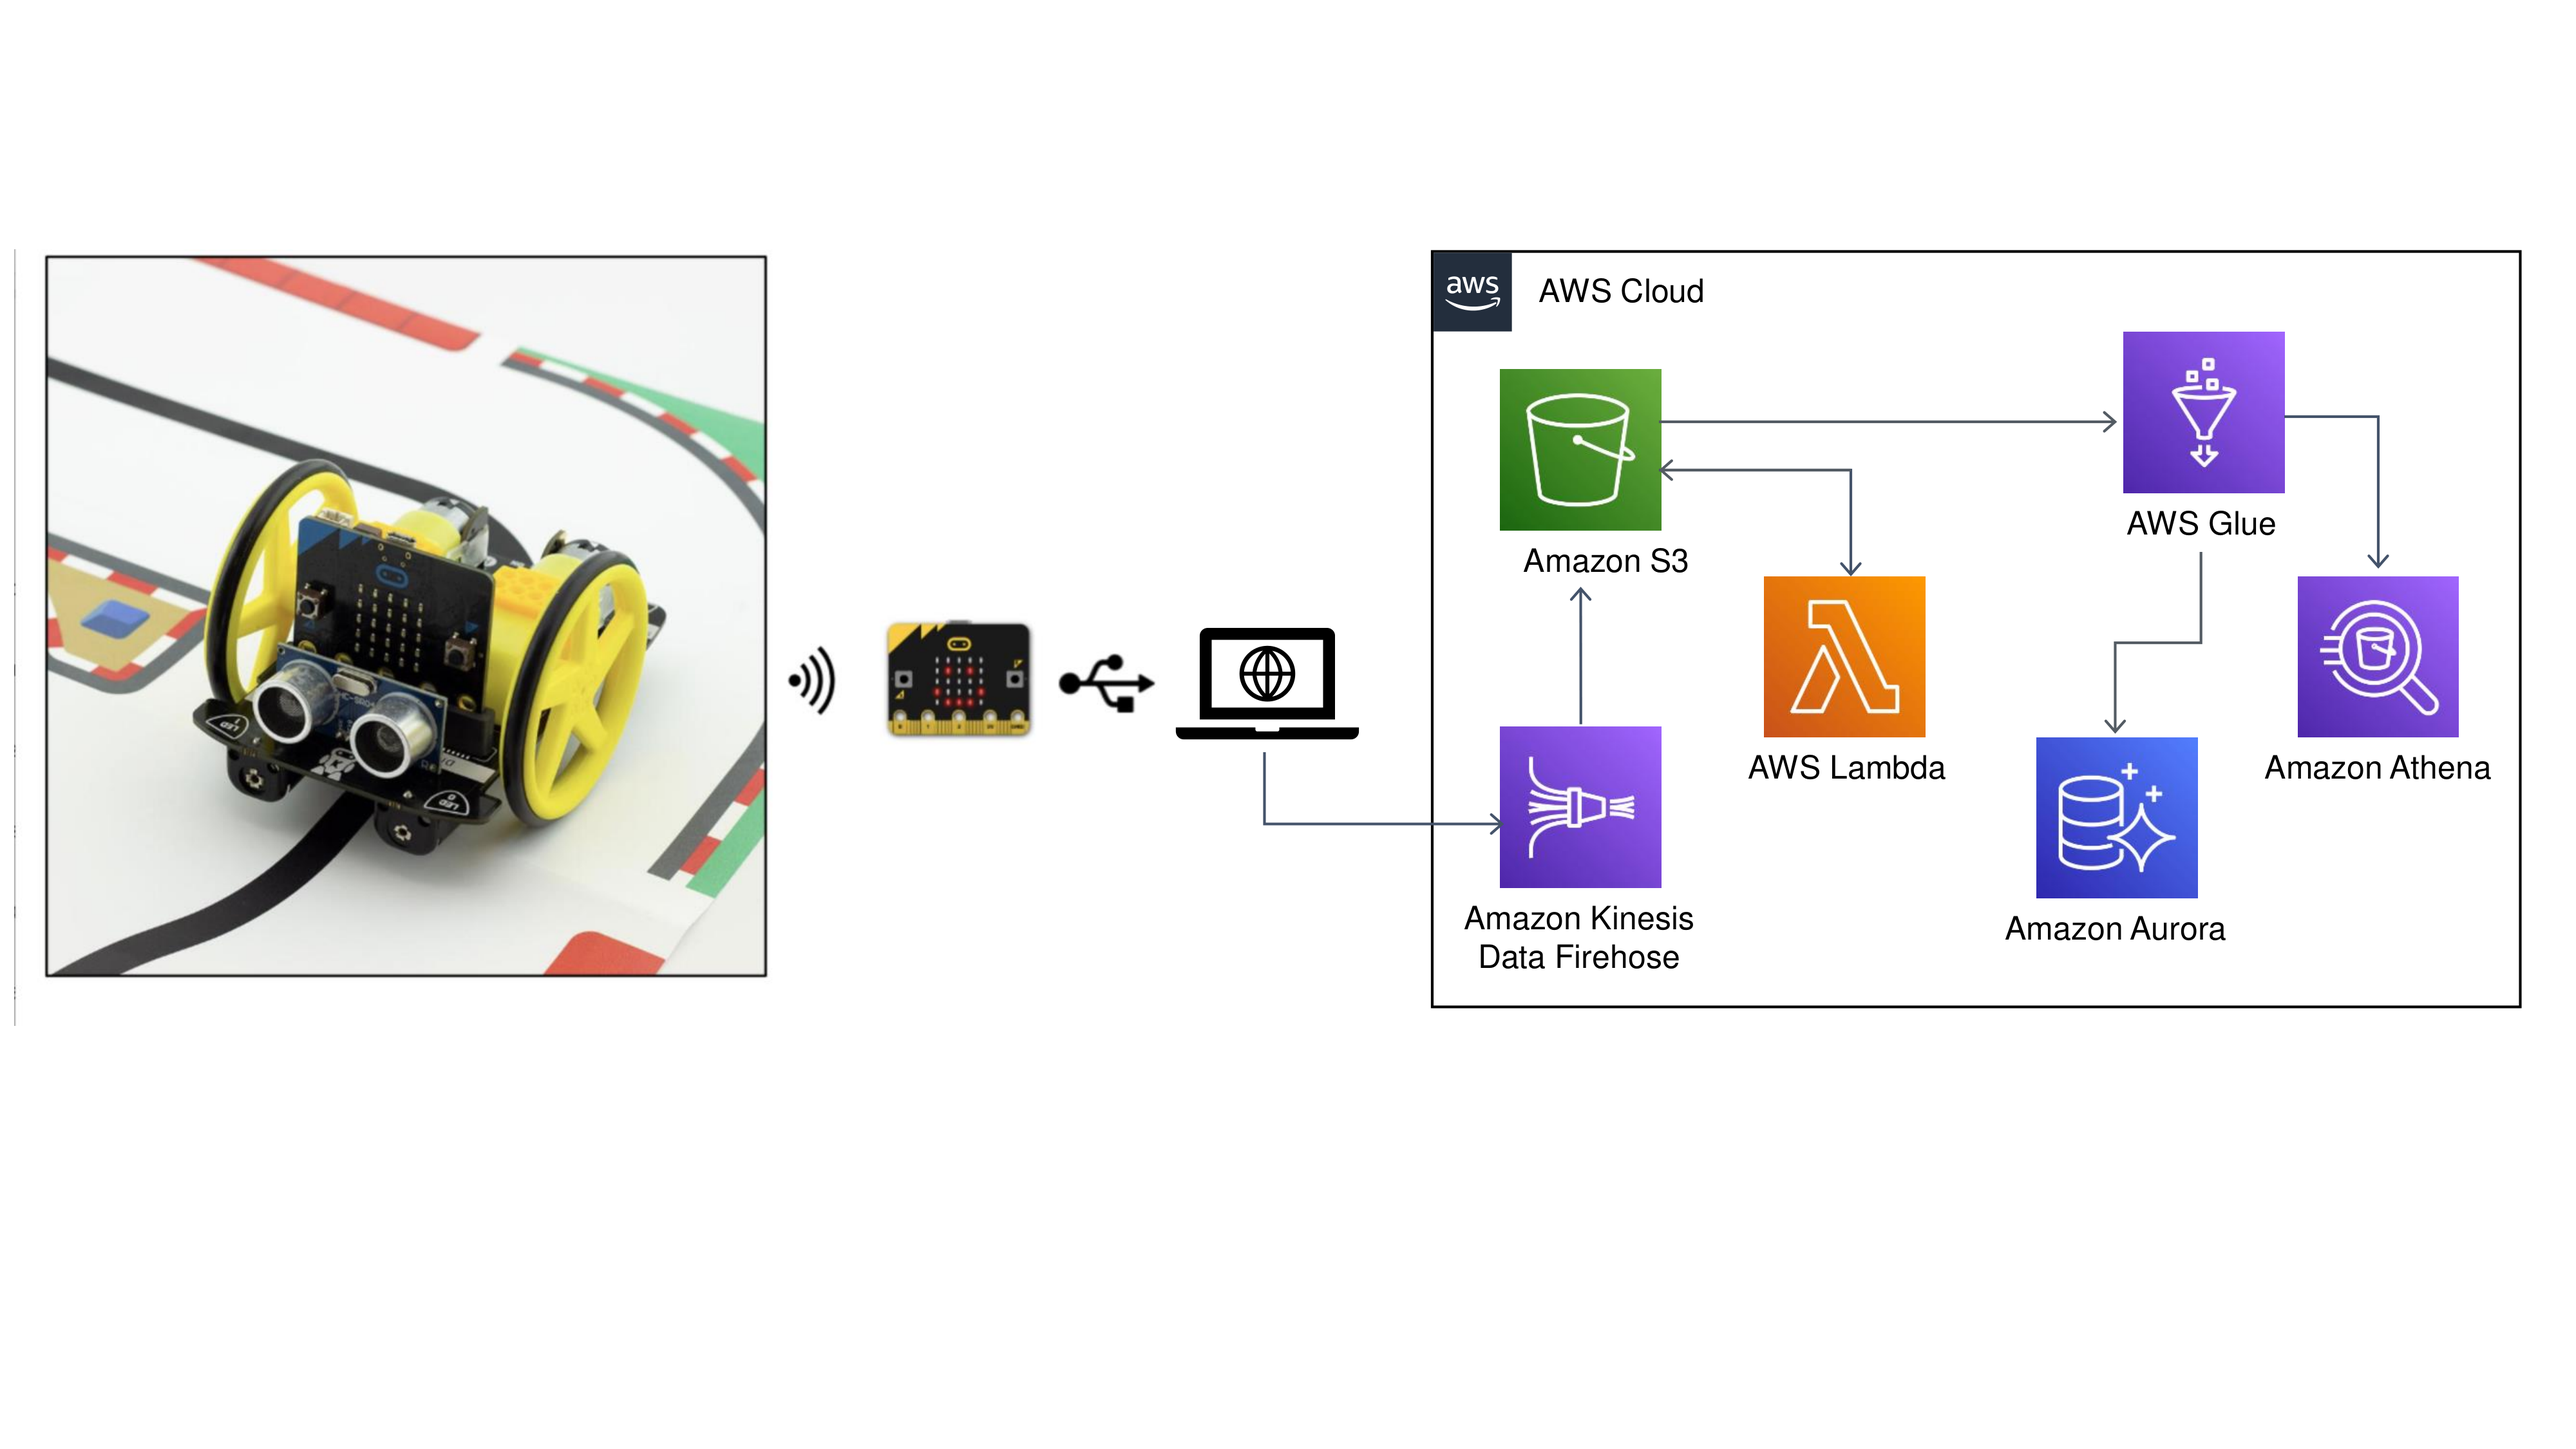
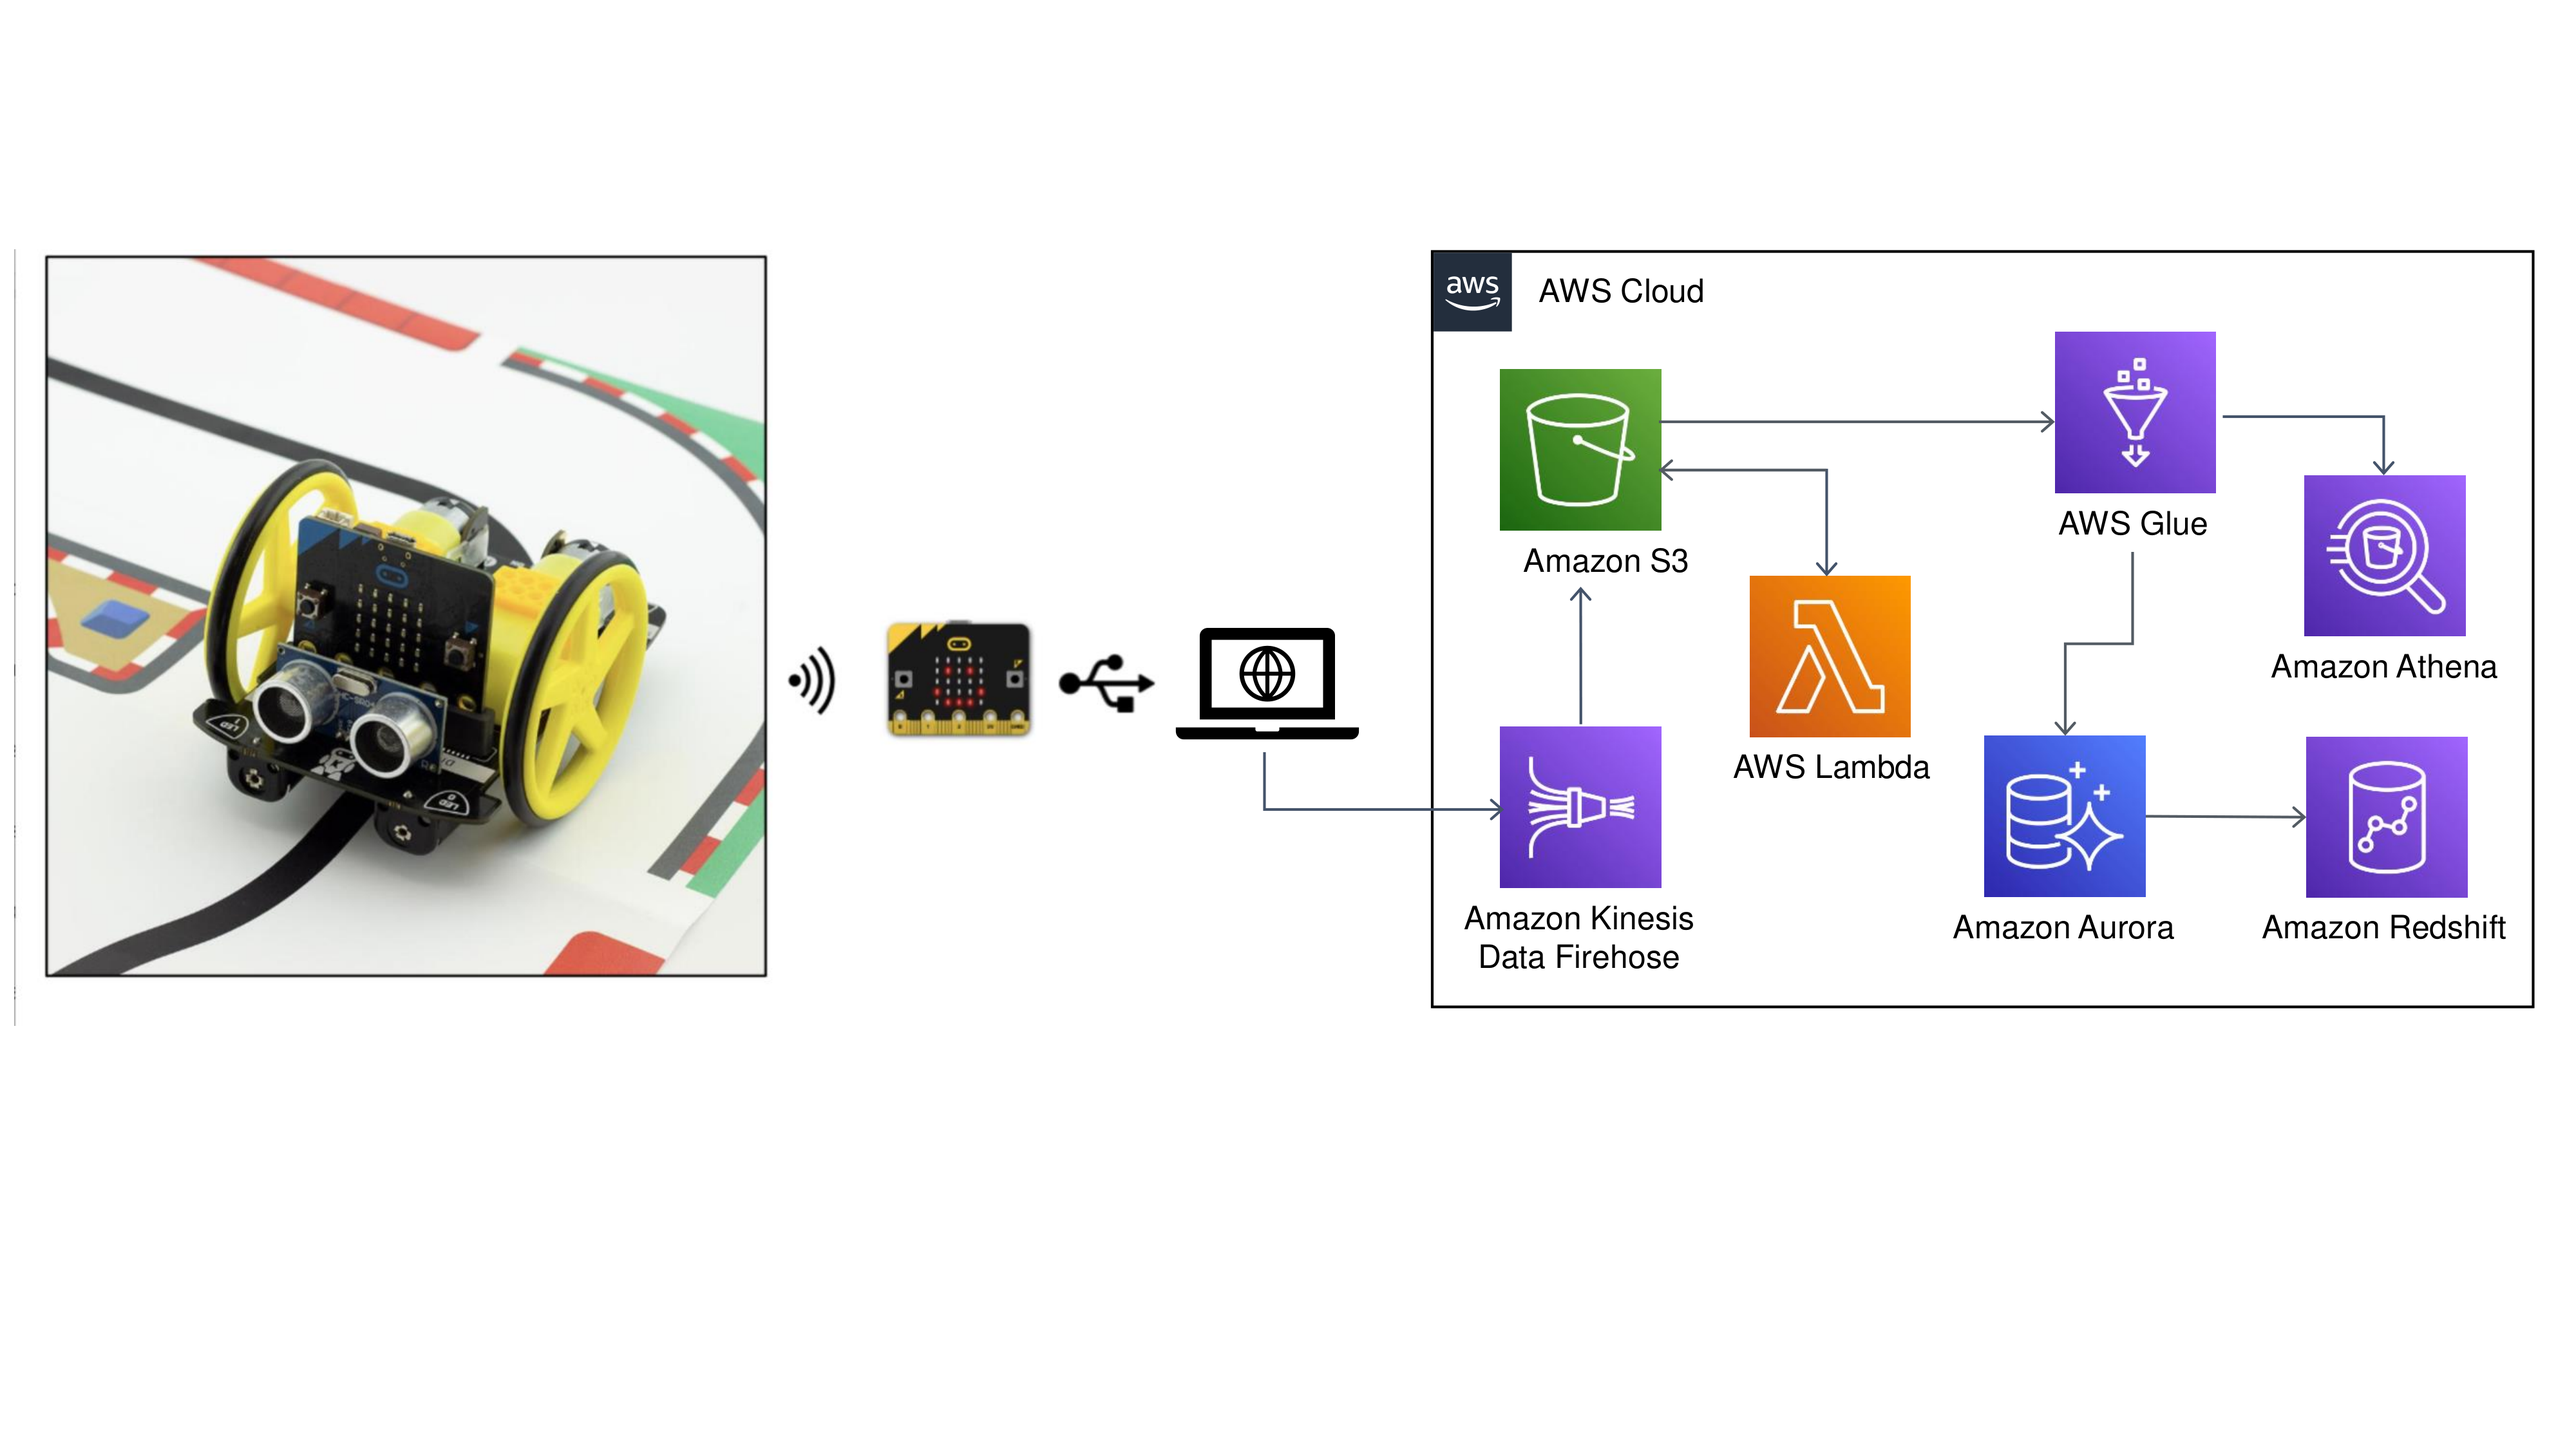
Update readme file

Changed region(s): [[0.6562, 0.2178, 1.0, 0.6533], [0.8125, 0.4356, 0.8438, 0.4667]]

diff --git a/README.md b/README.md
@@ -3,31 +3,35 @@
 ![](images/result.png)
 
 ## Objective
-I will learn how to assemble and how to capture and stream all real-time data into AWS. 
-Also, I want to use this data to create a visual data exploration.
+
+I will learn how to assemble and how to capture and stream all real-time data into AWS. Also, I want to use this data to
+create a visual data exploration.
 
 ## Description
-Using the BBC micro:bit too built an autonomous car and another micro:bit to be a receiver to capture all raw data 
-generated from the gyroscope, proximity sensor, line follow sensor, power consumption, velocity and more. 
-These raw data will be streamed into AWS to explore and visualize. The result screenshots will be at the end.
+
+Using the BBC micro:bit too built an autonomous car and another micro:bit to be a receiver to capture all raw data
+generated from the gyroscope, proximity sensor, line follow sensor, power consumption, velocity and more. These raw data
+will be streamed into AWS to explore and visualize. The result screenshots will be at the end.
 
 ## Microbit
-The BBC micro:bit is a pocket-sized computer that introduces you to how software and hardware work together. 
-It has an LED light display, buttons, sensors and many input/output features that you can program and physically interact with.
+
+The BBC micro:bit is a pocket-sized computer that introduces you to how software and hardware work together. It has an
+LED light display, buttons, sensors and many input/output features that you can program and physically interact with.
 
 ![](images/microbit.png)
 
 ## Car
+
 The car is equipped with two bi-directional DC motors with variable speed control, light, buzzer, obstacle detection and
-avoidance, line follow sensor, pen hole to draw, battery holders for 4x AA batteries and an onboard edge connector for 
+avoidance, line follow sensor, pen hole to draw, battery holders for 4x AA batteries and an onboard edge connector for
 the micro:bit.
 
 ![](images/car.jpg)
 
 ## Data
 
-These are all the data collected and transmitted to be ingested into AWS S3 a in a 
-JSON format.
+These are all the data collected and transmitted to be ingested into AWS S3 a in a JSON format.
+
 * Device Serial Number
 * Time
 * Acceleration (mg) X
@@ -47,7 +51,6 @@ JSON format.
 * Line Sensor (Right)
 * Millivolts
 * Total time in seconds
-
 
 ### JSON Example
 
@@ -72,68 +75,82 @@ JSON format.
 {'event_timestamp': 1637930417.524824, 'time': 81537, 'signal': -51, 'key': 'seconds', 'value': 21.537}
 ```
 
-## AWS Cloud Services 
+## AWS Cloud Services
 
 These are the AWS services used and a why I am using it.
 
 * Kinesis Data Firehose - stream the real-time data into Amazon S3.
 * S3 - it stores the real-time data to be used.
+* Lambda Function - every time a new data arrives in the raw data lake, it triggers the lambda function to check and
+  clean the data if necessary and move it to the processed data lake.
 * Glue
-  * Crawler - it is a cron schedule that is set to every 5 minutes populate the Glue Data Catalog with tables
-  * Glue Data Catalog - it indexes and creates the database schema.
-* Athena - is an interactive query service that analyze data by connecting to Glue Data Catalog to store and retrieve 
-table metadata from the Amazon S3 data.
-* 
+    * Crawler - it is a cron schedule that is set to every 5 minutes populate the Glue Data Catalog with tables
+    * Glue Data Catalog - it indexes and creates the database schema.
+* Athena - is an interactive query service that analyze data by connecting to Glue Data Catalog to store and retrieve
+  table metadata from the Amazon S3 data.
+* Amazon Aurora - it stores the processed data as a relational database.
+* Redshit - 
 
 ## Installation
 
 ### Requirements:
 
 1) Setup your IAM User credentials
+
 - ```~/.aws/config```
+
 ```
    [profile my_aws_profile]
    region = us-east-1
    output = yaml
 ```
-  - ```~/.aws/credentials```
+
+- ```~/.aws/credentials```
+
 ```
    [profile my_aws_profile]
    aws_access_key_id = <my_access_key_id> 
    aws_secret_access_key = <my_secret_access_key>
  ```
+
 2) Manually create a virtualenv on MacOS and Linux
+
 ```shell script
 $ python3 -m venv .venv
 ```
-3) After the init process completes and the virtualenv is created, you can use the following
-step to activate your virtualenv.
+
+3) After the init process completes and the virtualenv is created, you can use the following step to activate your
+   virtualenv.
+
 ```shell script
 $ source .venv/bin/activate
 ```
+
 4) Once the virtualenv is activated, you can install the required dependencies.
+
 ```shell script
 $ pip install -r requirements.txt
 ```
-5) Microbit Files
-Inside the folder microbit_files contains the code for the autonomous car and the receiver.
-Please go to the https://makecode.microbit.org/ follow the instruction to connect the microbit.
-Then copy and past the code to download to each microbit.
+
+5) Microbit Files Inside the folder microbit_files contains the code for the autonomous car and the receiver. Please go
+   to the https://makecode.microbit.org/ follow the instruction to connect the microbit. Then copy and past the code to
+   download to each microbit.
 
 ![](images/makecode.png)
 
-
 ### Environment Secrets:
+
 1) Make sure the env vars are present in GitHub settings look at deploy.yaml where they are used:
- - **AWS_ACCESS_KEY_ID**
- - **AWS_SECRET_ACCESS_KEY**
- - **AWS_DEFAULT_REGION**
+
+- **AWS_ACCESS_KEY_ID**
+- **AWS_SECRET_ACCESS_KEY**
+- **AWS_DEFAULT_REGION**
+
 2) Make deploy
 
-
 ## CI/CD
-This repo uses GitHub Actions for CI/CD. 
 
+This repo uses GitHub Actions for CI/CD.
 
 ## Results
 
